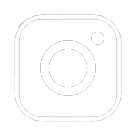
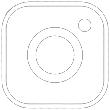
added new links and slidshows to art page

diff --git a/art.html b/art.html
@@ -11,5 +11,55 @@
     <body>
         <script src="js/nav.js"></script>
         <script src="js/foot.js"></script>
+        <div class="main-container">
+            <div class="card">
+                <script src="https://cdn.jsdelivr.net/npm/publicalbum@latest/embed-ui.min.js" async></script>
+                <div class="pa-gallery-player-widget slideshow" 
+                    data-link="https://photos.app.goo.gl/SzVQVWPx6xYnBPd66"
+                    data-title="sunsets"
+                    data-description="21 new items added to shared album"
+                    data-delay="10">
+                    <object data="https://lh3.googleusercontent.com/7ESR05hsRlmANgh8iALFG0o89k0EEhtVcw_EmTb6ybqXzlyAyc-KzzXGZupl8JXJIHIgQeVZ1Vl8gtlWeq4SrRHyowtDH2eKidjIGVjv4oz0rKPsnaYGPUWPQYMtbXvR5S4sn5QUK58=w1920-h1080"></object>
+                    <object data="https://lh3.googleusercontent.com/4m0ZoaBW2mZrH-0whB6Rdded_2Bk00HIRC-uLOpFrF0IkWe23C17UcB9dhAeVo5splmtXTGSVI2uriNYowhb5CDwT36NYHipy_4hpMTouS8iRIXSJfPUcs41TmFaF7x5wN6ro0dizZI=w1920-h1080"></object>
+                    <object data="https://lh3.googleusercontent.com/JEw7GQzLfhz3Ep8rEWhz45as619dwfQVY1MeLC4tvQxFy5YHSGb4C4PK4bJM7RthC-9-8FvlDlXHgvY2LAGEcImgtAQFqkJSdObZs1RbEA-coVMiRtTpVwcec7snuvHqzdq1Ks7qXwo=w1920-h1080"></object>
+                    <object data="https://lh3.googleusercontent.com/2NnFFJK6XInP4cjdFdKYRPlZ7iD4nrO-c0LsjJcuRTNY-I16p71krLUgXV156wm5i8W4eCFKceMtyGcZ1dxvLKicElZ1UAnIt3Vx4q9RjdW4v5smtA6u-HtUL9fD4EMoUAeYvyD7YBw=w1920-h1080"></object>
+                    <object data="https://lh3.googleusercontent.com/Ax87T_BS7a8Xjuc-wfyqhhE1KYwEeOKprWvg-rvnoMRokUn92Vk_OP7o98Q2G9ViBitYIrNfQjMrPOzRmpxj-eCKS7dc7vHKRAuhg0n3p9JOc5ZA5TM_sMIPOkM5_lGT9fgMz6AbNZY=w1920-h1080"></object>
+                    <object data="https://lh3.googleusercontent.com/FUarubvh470HjmepLOQLlMortRSsJYVwCu1nwCX1II6Nn24ycjRtU0Bq19FF0SH--BdNjHYrs4aE8-A88kfkG1kgZmf0Q-mv0hJ3bbNvx5xhqy9c9ugCzUaLzqsjmbSHxsfoLExi41g=w1920-h1080"></object>
+                    <object data="https://lh3.googleusercontent.com/7LMFgx6n156jew6rvdC8vdPucjF3F6fbqwFVujqbE_z8MG0hNcEzLcdq_3Lf3F5ZHVj0FWWXWY6VF0TgME5B2NJ0PbL_FVFOA-f9Yq5_fWYuL7-MwpPS27IgiHWo1c4WEuwkI5L4oTQ=w1920-h1080"></object>
+                    <object data="https://lh3.googleusercontent.com/a3tu0V_L67a1AqvAE1wy9ivhwafoRir55mKQyaqGoO0veppE7Z3x7j8L0qYCyFYkPuHZD4WJVpvG52cyDrwdzn0DpuBU2ZF77AEeHZDGCESKXSr7Xw9IGuoiv_aNTCAb3plZERAOaJo=w1920-h1080"></object>
+                    <object data="https://lh3.googleusercontent.com/xYBVf75bTwyYN-DjZ9DVzqMIO3xsR5m250F2DuHRb2gUd8vRMA1ndqCapJkRA4BMB-MEWqN8gDtWXL_ixVAk0eIf0wTJJwIqt5BLwlE8Y7UeBML_Mo38-lSvVvBdo3lhjke3Chxwo_k=w1920-h1080"></object>
+                    <object data="https://lh3.googleusercontent.com/JuBAVQ30-6xTmtjKY2DLXjIO-EOOrZ05rnSezWLkTTHoM6x2AvcUjubCeZeuKtR6uTIfYReg9DMw5Z4zeFDvYuli7lPbDqUhWcvrc3BLCG7PokxdUXEmwN2QIlv2FtG3O5mNLhvzlMA=w1920-h1080"></object>
+                    <object data="https://lh3.googleusercontent.com/2Hut2FQqAxgS6EDptid4jYjX9DRPFlgZHoroBRewBDJieGq0gYllfmN3UZoF2M60_R8b-vKelHqhYqQHhWZWCT9PXHH-cnVtDr6Pb31NMlC-bkIaFVBeZ9dzK1V4BroUHWz-XLF-pxs=w1920-h1080"></object>
+                    <object data="https://lh3.googleusercontent.com/4Tcl7at7pS8vYHoDdbeY8ykzdcLD5Kg4V9yzUGx-OMrPmQ1ez8FFGcLY79cXmROJu4_J_5uNj57IcHOy_CBfn-rtyVNs0JzmdS1bB2nuLH-tqFYyg_62Exdlhv-u5sndvcM_bYvEcXs=w1920-h1080"></object>
+                    <object data="https://lh3.googleusercontent.com/qIKzWiHmcbhMGUcvpki_6dkKOolN7zZb27ycNVpa5cHhLiV9zqNqo9EoQ9BZGxV4WcG3QWGgTz1uz3uFXbTrSWtzIB2nURWuRlwh8UH83tCjZqin-s3Ly29vuutFvdU8f7oTPDSkAjw=w1920-h1080"></object>
+                    <object data="https://lh3.googleusercontent.com/cUOn9As7yq6_OzFmQbK18GE2KymXancrkr-PtvH_MUCGx2gHnG3CdkBQoOMeex3mWwesjM-am-UZ1ryP33F7qye5NZ5RB6miY9eXD9j-Mp6hQ7IUTOibhADq0S-2__zsRrZLWOlZJ_E=w1920-h1080"></object>
+                    <object data="https://lh3.googleusercontent.com/AXSoOPVRpEhUpHWDifMYCsqOpyxaVe4FFpKZc-OCtNyBDgKch-UxJ0SxrwVlQeB8vj44zfgRA5iQWrhJ1RVrPG0Ck87mzELOGslBRwVBq-tu371qXIRq6lmcF0kTFBg-aZ7WOmyl390=w1920-h1080"></object>
+                    <object data="https://lh3.googleusercontent.com/_QtbHM9-WXBMrYU_hRwTwHXKIBNA9VR-v4_T1KeSu_QB1djYN1FHa-CbHsIVoTiuRFBVIYNDMnVh3Lowkuss_rmSVE3yCBWuVPEKeAO36TnR_1YEF7cKzRzt71UdjADb4bCMSxHIKsU=w1920-h1080"></object>
+                    <object data="https://lh3.googleusercontent.com/Lx-8l50utgRyPj4qyCNm_dB8pmwaxEoKwycImPhdaTWI3XdFgkti9JfkR4DJfKAL2Qtpj-mO_kOBiMQM2AmHiIUQKqLRsxB4ovDsdPE3irEI7qDMqhEhwKrKmmsayKHQxaeC9WCplAM=w1920-h1080"></object>
+                    <object data="https://lh3.googleusercontent.com/oYflFZdGKMleAvHO4TLmXH5lUNYb2uyJC4kerBy_t3KU8c_FojowgluiPrThbtsbAfb-AIcuAxrNrA7YRrh2p_1qPtJ8dyJd9P_ruWjUqqMKyPmu0c_oXPryiDDWpYjSUCiRrlBZ_NQ=w1920-h1080"></object>
+                    <object data="https://lh3.googleusercontent.com/QUBVMjUMdJec6HWLREY2_UgDYjhSmQExvbwhMQfgfUgmfdp-HglgA-Sey9_ls3PK9X8LNZKORDzLeRi7AQ_ahbNU1IfyMSyzLbfAR2PLMPMk2B7lEojBlOYyD-tOhVf9gXC5TO20pQ0=w1920-h1080"></object>
+                    <object data="https://lh3.googleusercontent.com/r5YnuvEfmVUTQ1VqSFJ--ubI79HrAaAsE2g1Lo6J5dc0_TipqEXuPqi0u8KezWciECdR5Vxjy1CC8ASJq969ANKNpqW1pYQbTl1vC_flw41sdH996IXq6VwBvXpVI0LUJ6yAfWMAT0c=w1920-h1080"></object>
+                    <object data="https://lh3.googleusercontent.com/gUXo7Cl_P2mb2VKWhmYx2IsJZneGgHSciceBLHfyPaj6zDat8E9iNlNGYZY5GYRnGVv6snNWqLsBoOXYw1Q9w8orK07F6sPDd5httcPMic47BGY0Nl34nEvWSvYBedsQIQGOnFOn450=w1920-h1080"></object>
+                </div> 
+            </div>
+            <div class="card">
+                <script src="https://cdn.jsdelivr.net/npm/publicalbum@latest/embed-ui.min.js" async></script>
+                <div class="pa-gallery-player-widget slideshow"
+                    data-link="https://photos.app.goo.gl/AZACKEo6gJyp9G4T6"
+                    data-title="art"
+                    data-description="10 new items added to shared album">
+                    <object data="https://lh3.googleusercontent.com/cSJ2Hxn6JDqXRL0TceGXmhXQIeZiwkOux-DvDix4FqE7KqvO8QTTd8KZGmX0f1d2QuTovW6ZYMN0BUAGvJLyLMo2mT62DYyjC4dZmsTxGsDNSze0ia-pqgBafyNhHb2MPWBbAUcL_ug=w1920-h1080"></object>
+                    <object data="https://lh3.googleusercontent.com/rBOvX6iP8EBF5sC6VdnJ1Z1qRfVxMps0TIMeK1-hVM8hZ0em5PxEYMBI25KZtdRraRLaHtTSEWoLk7hb0PCL7eEIgW5si0Zw4dlov1l3twLUar9mfOX5q6SZjFy_6h-Pcd_ucttf2_0=w1920-h1080"></object>
+                    <object data="https://lh3.googleusercontent.com/3KgtazL9Vt_3FlbWkSMF3VLFLJKnb2xdAgeJkRNxiL6Ar-5-ZlK9_dZ01lktkvfETOmt6DF0mdX7d9TkU_Ai3GslpmsoHLrDnHVEq7crGjYopiPrWXgqnfEM8404nV3ae3mGcoO5BsY=w1920-h1080"></object>
+                    <object data="https://lh3.googleusercontent.com/rRplVqGmTSclKYukb7W4BpyX3OYS9t-BAcocPE8k3uhIAaVyJgDfA_-xPQdD80D8UWmaJu-IesPv6AEROTj4BwtHtc5LpcXEfwYaGSMVP1HOgmoEf3wRZtZXGH7CHq1O8Syd-BYBjyI=w1920-h1080"></object>
+                    <object data="https://lh3.googleusercontent.com/0DUHmwHjwP3Zwm-oPlbV1fvXSmRX3QT5swKsvpt-ABGK5txZRXLNiZFtAhP1iJaU6eri5hLL5NCJ-X9exd1DvYE4vHOqb4aTaFxohlgXKkPmDMD0pDB_YO8xNxnvgKhBFxZy-M1wOG8=w1920-h1080"></object>
+                    <object data="https://lh3.googleusercontent.com/j92t9Ank1IwpvFVbb5AEeF-171vE_mnOk4jCtNzeZnWjjSe9TEt-IyXek5n55XG6QrM8JumTC2i0_LDGLFf1F7XJw3Ya5W2shd3afuqAGJXclTS_RcghIWspXJVmU1GkbkNVYaJZcSI=w1920-h1080"></object>
+                    <object data="https://lh3.googleusercontent.com/AfpxUz6JeXwjqGwQbkxdktUSveZGcD2Xj0O31Ddxb1YVofn0UH1gfQIGBeIFpe04NSqlXe06Zx90H6yRP9I4Skvnf6qEHzjzwEtI3tQuMojN5YQOHxknXYKx9o_xslzTZR-26opOnCw=w1920-h1080"></object>
+                    <object data="https://lh3.googleusercontent.com/nW0XFTA_Mr01TioLzjXLt0-mnAPscWJtRwRkYJ-eq6q6owE6JSt_FJ6v5n-1mR9PWLzv7oNm6r6OtFOMYIsR3OT6iUxslncryYu_p3yc33rIVYPgHh0J2uZlQPMeKPUoytLBDyogVmI=w1920-h1080"></object>
+                    <object data="https://lh3.googleusercontent.com/sXfiSU-u2NZwbWfr00tZaY9oqeDFzNwsRLfEIB68WkQ9HenGlVCP6rY8qUCM2z9h3t-i-CgK81U9pB733dv3l294U6sRGCB8ni2o7mA85fLjUkWdS8SbaNaNWHCbFmM0nxlXwUJtxq4=w1920-h1080"></object>
+                    <object data="https://lh3.googleusercontent.com/oj9LP6avhORptQCWggpnFRXEqSj9pEAq0cj_aNsLwPCO3FJrlTzjzML4tUFe9oe10ribqvqCUaRRr-PoN4yg4zCGRIO5wKtLx_kvQF3BJJbCplSwHMvbBvJ0m4fpghiiZnxMyq9Uti8=w1920-h1080"></object>
+                </div>
+            </div>
+        </div>
     </body>
 </html>

diff --git a/index.html b/index.html
@@ -9,6 +9,7 @@
         <link href="https://cdn.jsdelivr.net/npm/bootstrap@5.3.0-alpha1/dist/css/bootstrap.min.css" rel="stylesheet" integrity="sha384-GLhlTQ8iRABdZLl6O3oVMWSktQOp6b7In1Zl3/Jr59b6EGGoI1aFkw7cmDA6j6gD" crossorigin="anonymous">
         <script src="https://cdn.jsdelivr.net/npm/@popperjs/core@2.11.7/dist/umd/popper.min.js" integrity="sha384-zYPOMqeu1DAVkHiLqWBUTcbYfZ8osu1Nd6Z89ify25QV9guujx43ITvfi12/QExE" crossorigin="anonymous"></script>
         <script src="https://cdn.jsdelivr.net/npm/bootstrap@5.3.0-alpha3/dist/js/bootstrap.min.js" integrity="sha384-Y4oOpwW3duJdCWv5ly8SCFYWqFDsfob/3GkgExXKV4idmbt98QcxXYs9UoXAB7BZ" crossorigin="anonymous"></script>
+        <script src="js/func.js"></script>
     </head>
     <body>
         <script src="js/nav.js"></script>
@@ -18,7 +19,21 @@
             <div class="card">
                 goober
             </div>
+            <div class="card">
+                <form class="form-control form-control-lg" action="mailto:mcadieux2023@tamu.edu" method="post" enctype="text/plain">
+                    <label for="inputPassword5" class="form-label">Name: </label><br>
+                    <input class="form-input" type="text" name="name"><br>
+                    <label for="inputPassword5" class="form-label">Email: </label><br>
+                    <input class="form-input" type="text" name="mail"><br>
+                    <label for="inputPassword5" class="form-label">Song: </label><br>
+                    <input class="form-input" type="text" name="song"><br><br>
+                    <input type="submit" value="Send">
+                    <input type="reset" value="Reset">
+                </form>
+            </div>
         </div>
+
+
         <script src="js/foot.js"></script>
     </body>
 </html>

diff --git a/main.css b/main.css
@@ -20,7 +20,7 @@ body{
     height: 50px;
     width: 50px;
     float: right;
-    border-radius: 50%;
+    border-radius: 5%;
     margin: 10px;
 }
 
@@ -43,9 +43,37 @@ body{
 }
 
 .main-container {
-    padding: 2% 20%
+    padding: 2% 20%;
+    display: flex;
+    align-items: center;
+    justify-content: center;
 }
 
 .card {
-    padding: 1% 3% 3% 3%
+    padding: 3%;
+    margin: 2% 2%;
+}
+
+.form-input {
+    width: 30%;
+}
+
+@media screen and (max-width: 1000px) {
+    .form-input {
+        width: 100%;
+    }
+    .slideshow {
+        width: 320px;
+        height: 240px;
+    }
+    .main-container {
+        padding: 0%;
+    }
+} 
+
+.slideshow {
+    width: 320px; 
+    height: 240px;
+    display:none;
+    align-items: center;
 }

diff --git a/js/foot.js b/js/foot.js
@@ -3,5 +3,6 @@ document.write('\
         <div class="foot-text">&copy; 2023 Michael Cadieux</div>\
         <a href="https://www.instagram.com/cadieuxbadger/" target="_blank"><img class="link-icon" src="images/insta.png"></a>\
         <a href="https://github.com/cadieuxbadger" target="_blank"><img class="link-icon" src="images/git.png"></a>\
+        <a href="https://www.linkedin.com/in/michael-cadieux-ba404226b/" target="_blank"><img class="link-icon" src="images/linkedin.png"></a>\
     </div>\
 ');

diff --git a/js/func.js b/js/func.js
@@ -1,0 +1,9 @@
+const tabs = document.querySelectorAll('.nav_link');
+tabs.forEach(clickedTab =>{
+  clickedTab.addEventListener('click', () => {
+    tabs.forEach( tab => {
+      tab.classList.remove(' active');
+    });
+    e.target.classList.add(' active');
+  });
+});
